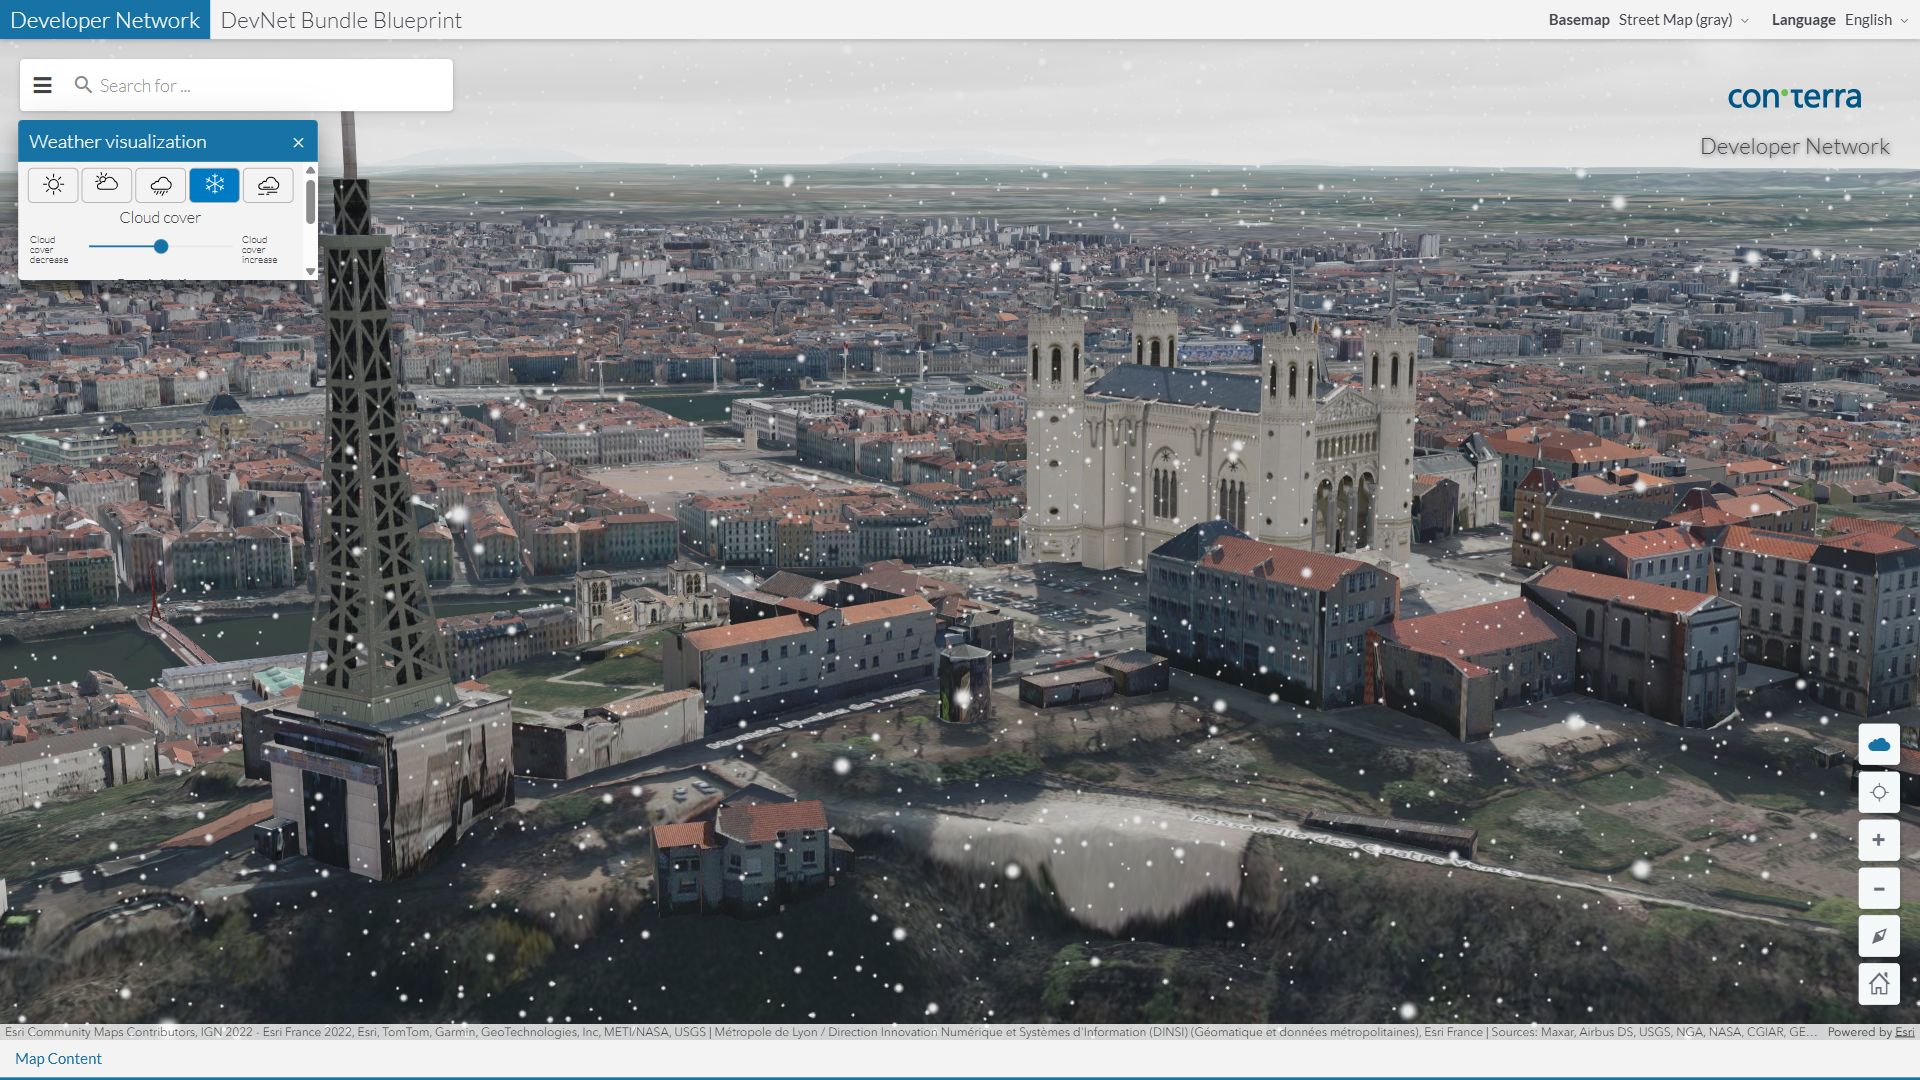
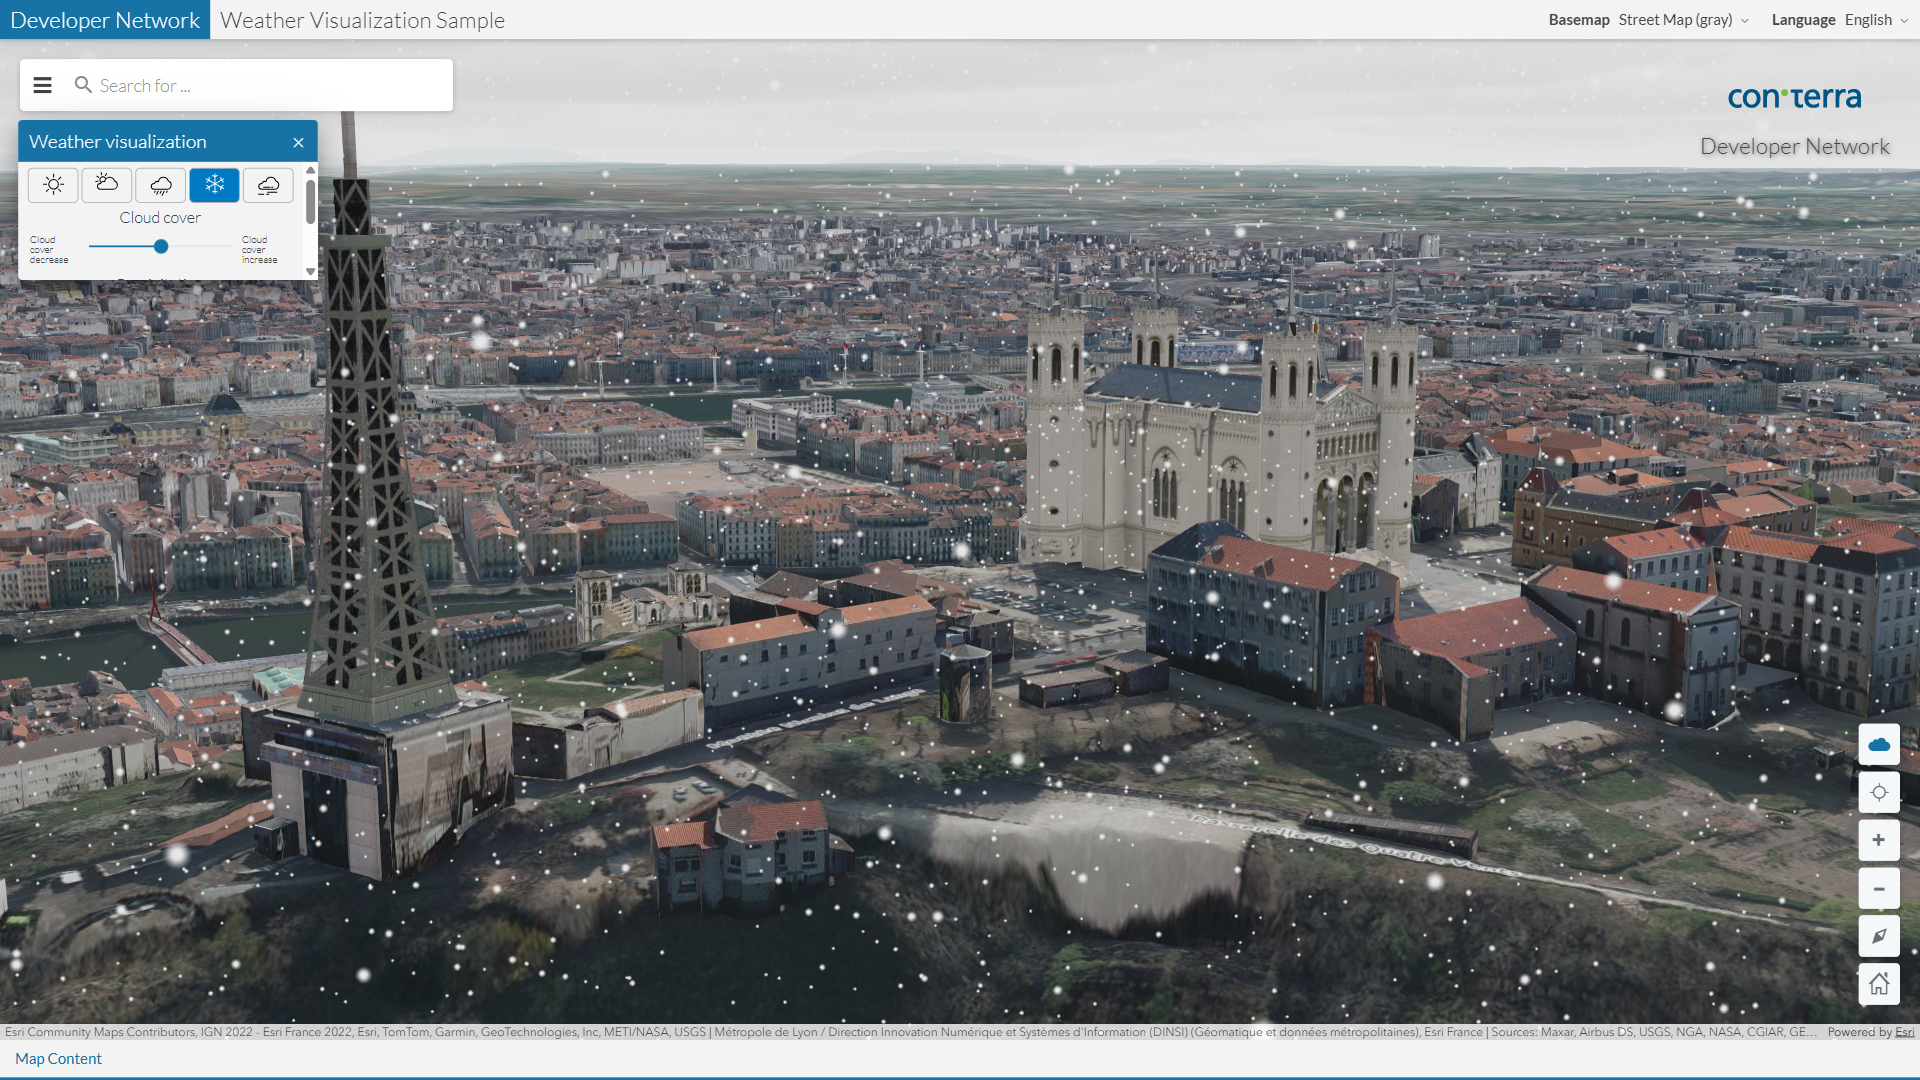
Update app title in localization files to reflect weather visualization context

diff --git a/src/main/js/apps/sample/nls/de/bundle.js b/src/main/js/apps/sample/nls/de/bundle.js
@@ -14,7 +14,7 @@
  * limitations under the License.
  */
 module.exports = {
-    apptitle: "DevNet Bundle Blueprint",
+    apptitle: "Weather Visualization Sample",
     map: {
         basemaps: {
             gray: "Stra\xDFenkarte (grau)",

diff --git a/src/main/js/apps/sample/nls/bundle.js b/src/main/js/apps/sample/nls/bundle.js
@@ -15,7 +15,7 @@
  */
 module.exports = {
     root: {
-        apptitle: "DevNet Bundle Blueprint",
+        apptitle: "Weather Visualization Sample",
         map: {
             basemaps: {
                 gray: "Street Map (gray)",
